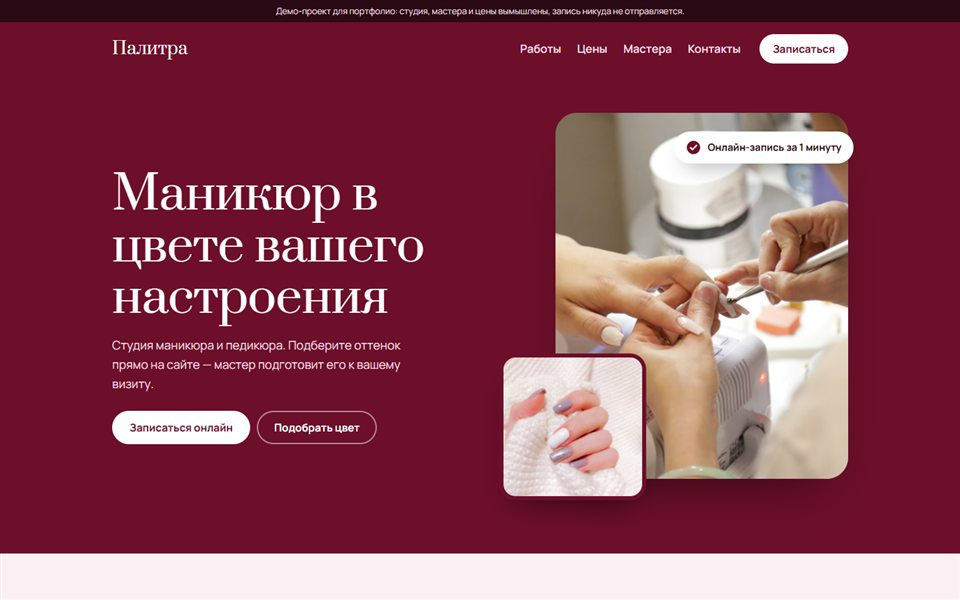
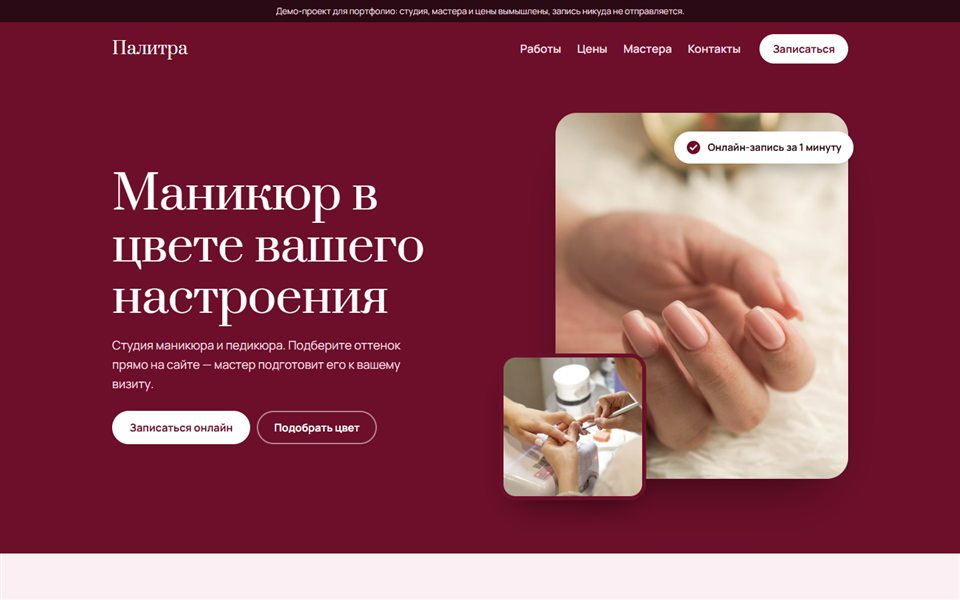
Палитра: рука с маникюром на первом экране, лента работ едет при прокрутке

Changed region(s): [[0.5, 0.18, 0.9062, 0.84]]

diff --git a/demo-nails/index.html b/demo-nails/index.html
@@ -62,18 +62,26 @@
   .c-small { position: absolute; left: 0; bottom: 0; width: 42%; height: auto; aspect-ratio: 1; object-fit: cover; border-radius: 24px; border: 6px solid var(--cherry); box-shadow: 0 24px 48px -24px rgba(0, 0, 0, .6); }
   .badge { position: absolute; right: -8px; top: 28px; display: flex; align-items: center; gap: 10px; padding: 12px 18px; border-radius: 999px; background: var(--white); color: var(--ink); font-weight: 700; font-size: .9375rem; box-shadow: 0 16px 32px -16px rgba(0, 0, 0, .5); }
 
-  /* Галерея работ */
-  .gallery-sec { background: var(--petal); }
-  .sec-head { display: grid; grid-template-columns: minmax(0, 5fr) minmax(0, 7fr); gap: 12px clamp(24px, 4vw, 64px); align-items: end; margin-bottom: clamp(28px, 4vw, 48px); }
-  .sec-head h2 { margin: 0; }
-  .sec-head p { margin: 0; max-width: 52ch; color: var(--ink-soft); }
-  .gallery { display: grid; grid-template-columns: repeat(3, minmax(0, 1fr)); gap: clamp(10px, 1.6vw, 20px); }
-  .gallery figure { position: relative; margin: 0; border-radius: 22px; overflow: hidden; background: var(--blush); }
-  .gallery figure:nth-child(3n + 2) { transform: translateY(32px); }
-  .gallery img { display: block; width: 100%; height: auto; aspect-ratio: 4 / 5; object-fit: cover; transition: transform .6s var(--ease); }
-  .gallery figure:hover img { transform: scale(1.05); }
-  .gallery figcaption { position: absolute; left: 12px; bottom: 12px; padding: 7px 14px; border-radius: 999px; background: rgba(255, 255, 255, .92); color: var(--ink); font-weight: 700; font-size: .875rem; }
-  .credit { margin: 52px 0 0; color: var(--ink-soft); font-size: .8125rem; }
+  /* Лента работ: страница листается вниз, руки едут вбок */
+  .reel { position: relative; background: var(--petal); height: 300vh; }
+  .reel-sticky { position: sticky; top: 0; height: 100vh; height: 100svh; overflow: hidden; display: flex; flex-direction: column; justify-content: center; gap: clamp(18px, 3vh, 32px); }
+  .reel-head { display: grid; grid-template-columns: minmax(0, 5fr) minmax(0, 7fr); gap: 8px clamp(24px, 4vw, 64px); align-items: end; width: 100%; }
+  .reel-head h2 { margin: 0; font-size: clamp(2rem, 1.2rem + 2.6vw, 3.2rem); }
+  .reel-head p { margin: 0; max-width: 52ch; color: var(--ink-soft); }
+  .reel-track { display: flex; gap: clamp(14px, 2vw, 28px); padding-inline: max(clamp(16px, 4vw, 48px), calc((100vw - 1200px) / 2 + 48px)); will-change: transform; }
+  .reel-track figure { position: relative; flex: none; margin: 0; width: clamp(220px, 24vw, 340px); border-radius: 26px; overflow: hidden; background: var(--blush); box-shadow: 0 30px 50px -30px rgba(74, 10, 28, .55); transform: translateY(var(--y, 0)) rotate(var(--rot, 0deg)); }
+  .reel-track figure:nth-child(odd) { --y: -18px; --rot: -1.5deg; }
+  .reel-track figure:nth-child(even) { --y: 18px; --rot: 1.5deg; }
+  .reel-track img { display: block; width: 100%; height: auto; aspect-ratio: 4 / 5; max-height: 52vh; object-fit: cover; }
+  .reel-track figcaption { position: absolute; left: 12px; bottom: 12px; padding: 7px 14px; border-radius: 999px; background: rgba(255, 255, 255, .92); color: var(--ink); font-weight: 700; font-size: .875rem; }
+  .reel-foot { display: flex; align-items: center; gap: 16px; width: 100%; color: var(--ink-soft); font-size: .8125rem; }
+  .reel-progress { flex: 1; height: 3px; border-radius: 3px; background: var(--line); overflow: hidden; }
+  .reel-progress i { display: block; height: 100%; width: 100%; background: var(--cherry); transform-origin: 0 50%; transform: scaleX(var(--p, 0)); }
+  /* без анимации — обычная лента, которую листают пальцем */
+  .reel.static { height: auto; padding-block: clamp(64px, 9vw, 112px); }
+  .reel.static .reel-sticky { position: static; height: auto; }
+  .reel.static .reel-track { overflow-x: auto; scroll-snap-type: x mandatory; padding-block: 24px; }
+  .reel.static .reel-track figure { scroll-snap-align: start; }
 
   /* Подбор цвета */
   .studio-sec { background: var(--cherry); color: var(--white); }
@@ -145,10 +153,8 @@
   footer { background: var(--ink); color: var(--blush); font-size: .875rem; padding-block: 0 28px; opacity: .85; }
 
   @media (max-width: 900px) {
-    .hero-grid, .booking-grid, .studio-grid, .sec-head { grid-template-columns: minmax(0, 1fr); }
-    .gallery { grid-template-columns: repeat(2, minmax(0, 1fr)); }
-    .gallery figure:nth-child(3n + 2) { transform: none; }
-    .credit { margin-top: 20px; }
+    .hero-grid, .booking-grid, .studio-grid, .reel-head { grid-template-columns: minmax(0, 1fr); }
+    .reel-track figure { width: 62vw; }
     .badge { right: 0; }
     .prices { grid-template-columns: minmax(0, 1fr); }
   }
@@ -179,8 +185,8 @@
     </div>
 
     <div class="collage">
-      <img class="c-main" src="https://images.unsplash.com/photo-1632345031435-8727f6897d53?auto=format&fit=crop&w=1000&h=1250&q=75" alt="Мастер делает маникюр клиентке" width="1000" height="1250">
-      <img class="c-small" src="https://images.unsplash.com/photo-1607779097040-26e80aa78e66?auto=format&fit=crop&w=600&h=600&q=75" alt="Маникюр с лавандовым покрытием и блёстками" width="600" height="600">
+      <img class="c-main" src="https://images.unsplash.com/photo-1610992015762-45dca7fa3a85?auto=format&fit=crop&w=1000&h=1250&q=75" alt="Рука с аккуратным нюдовым маникюром" width="1000" height="1250">
+      <img class="c-small" src="https://images.unsplash.com/photo-1632345031435-8727f6897d53?auto=format&fit=crop&w=600&h=600&q=75" alt="Мастер делает маникюр клиентке" width="600" height="600">
       <div class="badge">
         <svg width="22" height="22" viewBox="0 0 22 22" aria-hidden="true"><circle cx="11" cy="11" r="10" fill="#6d0f2a"/><path d="m6.5 11.3 3 3 6-6.6" fill="none" stroke="#fff" stroke-width="2.2" stroke-linecap="round" stroke-linejoin="round"/></svg>
         Онлайн-запись за 1 минуту
@@ -189,21 +195,26 @@
   </section>
 </div>
 
-<section class="section gallery-sec" id="works" aria-labelledby="works-title">
-  <div class="wrap">
-    <div class="sec-head">
+<section class="reel" id="works" aria-labelledby="works-title">
+  <div class="reel-sticky">
+    <div class="wrap reel-head">
       <h2 id="works-title">Наши работы</h2>
-      <p>От аккуратного нюда до авторской росписи. Покажите мастеру понравившийся дизайн — повторим или придумаем ваш.</p>
+      <p>Листайте вниз — работы проедут мимо. Покажите мастеру понравившийся дизайн, и мы повторим его или придумаем ваш.</p>
     </div>
-    <div class="gallery">
-      <figure><img src="https://images.unsplash.com/photo-1604654894610-df63bc536371?auto=format&fit=crop&w=700&h=875&q=75" alt="Черепаховый дизайн ногтей" loading="lazy" width="700" height="875"><figcaption>Черепаховый дизайн</figcaption></figure>
-      <figure><img src="https://images.unsplash.com/photo-1610992015762-45dca7fa3a85?auto=format&fit=crop&w=700&h=875&q=75" alt="Натуральный нюдовый маникюр" loading="lazy" width="700" height="875"><figcaption>Натуральный нюд</figcaption></figure>
-      <figure><img src="https://images.unsplash.com/photo-1571290274554-6a2eaa771e5f?auto=format&fit=crop&w=700&h=875&q=75" alt="Яркая авторская роспись ногтей" loading="lazy" width="700" height="875"><figcaption>Авторская роспись</figcaption></figure>
-      <figure><img src="https://images.unsplash.com/photo-1612887390768-fb02affea7a6?auto=format&fit=crop&w=700&h=875&q=75" alt="Розовый маникюр миндальной формы" loading="lazy" width="700" height="875"><figcaption>Розовый миндаль</figcaption></figure>
-      <figure><img src="https://images.unsplash.com/photo-1630843599725-32ead7671867?auto=format&fit=crop&w=700&h=875&q=75" alt="Молочный маникюр и тонкое кольцо" loading="lazy" width="700" height="875"><figcaption>Молочный минимализм</figcaption></figure>
-      <figure><img src="https://images.unsplash.com/photo-1736434518489-0eb84070017f?auto=format&fit=crop&w=700&h=875&q=75" alt="Маникюр цвета капучино" loading="lazy" width="700" height="875"><figcaption>Тёплый капучино</figcaption></figure>
+    <div class="reel-track" id="reel-track">
+      <figure><img src="https://images.unsplash.com/photo-1604654894610-df63bc536371?auto=format&fit=crop&w=700&h=875&q=75" alt="Черепаховый дизайн ногтей" width="700" height="875"><figcaption>Черепаховый дизайн</figcaption></figure>
+      <figure><img src="https://images.unsplash.com/photo-1607779097040-26e80aa78e66?auto=format&fit=crop&w=700&h=875&q=75" alt="Лавандовый маникюр с блёстками" width="700" height="875"><figcaption>Лаванда и блёстки</figcaption></figure>
+      <figure><img src="https://images.unsplash.com/photo-1571290274554-6a2eaa771e5f?auto=format&fit=crop&w=700&h=875&q=75" alt="Яркая авторская роспись ногтей" width="700" height="875"><figcaption>Авторская роспись</figcaption></figure>
+      <figure><img src="https://images.unsplash.com/photo-1612887390768-fb02affea7a6?auto=format&fit=crop&w=700&h=875&q=75" alt="Розовый маникюр миндальной формы" width="700" height="875"><figcaption>Розовый миндаль</figcaption></figure>
+      <figure><img src="https://images.unsplash.com/photo-1630843599725-32ead7671867?auto=format&fit=crop&w=700&h=875&q=75" alt="Молочный маникюр и тонкое кольцо" width="700" height="875"><figcaption>Молочный минимализм</figcaption></figure>
+      <figure><img src="https://images.unsplash.com/photo-1604902396830-aca29e19b067?auto=format&fit=crop&w=700&h=875&q=75" alt="Пудрово-розовый маникюр на розовом фоне" width="700" height="875"><figcaption>Пудровый розовый</figcaption></figure>
+      <figure><img src="https://images.unsplash.com/photo-1736434518489-0eb84070017f?auto=format&fit=crop&w=700&h=875&q=75" alt="Маникюр цвета капучино" width="700" height="875"><figcaption>Тёплый капучино</figcaption></figure>
+      <figure><img src="https://images.unsplash.com/photo-1604654894611-6973b376cbde?auto=format&fit=crop&w=700&h=875&q=75" alt="Тёмный маникюр с золотыми акцентами" width="700" height="875"><figcaption>Графит с золотом</figcaption></figure>
     </div>
-    <p class="credit">Фото: Unsplash</p>
+    <div class="wrap reel-foot">
+      <div class="reel-progress" aria-hidden="true"><i id="reel-bar"></i></div>
+      <span>Фото: Unsplash</span>
+    </div>
   </div>
 </section>
 
@@ -399,6 +410,30 @@
     const t = document.getElementById(a.getAttribute('href').slice(1));
     if (!t) return; e.preventDefault(); t.scrollIntoView({ behavior: 'smooth' });
   }));
+
+  // Лента работ: вертикальная прокрутка двигает руки вбок
+  const reel = $('#works'), track = $('#reel-track'), bar = $('#reel-bar');
+  if (matchMedia('(prefers-reduced-motion: reduce)').matches) {
+    reel.classList.add('static');
+  } else {
+    let dist = 0, ticking = false;
+    const size = () => {
+      dist = Math.max(0, track.scrollWidth - document.documentElement.clientWidth);
+      reel.style.height = `${window.innerHeight + dist}px`;
+      move();
+    };
+    const move = () => {
+      const top = reel.getBoundingClientRect().top;
+      const p = dist ? Math.min(1, Math.max(0, -top / dist)) : 0;
+      track.style.transform = `translate3d(${-p * dist}px, 0, 0)`;
+      bar.style.setProperty('--p', p.toFixed(4));
+      ticking = false;
+    };
+    addEventListener('scroll', () => { if (!ticking) { ticking = true; requestAnimationFrame(move); } }, { passive: true });
+    addEventListener('resize', size);
+    addEventListener('load', size);
+    size();
+  }
   paint();
 })();
 </script>
